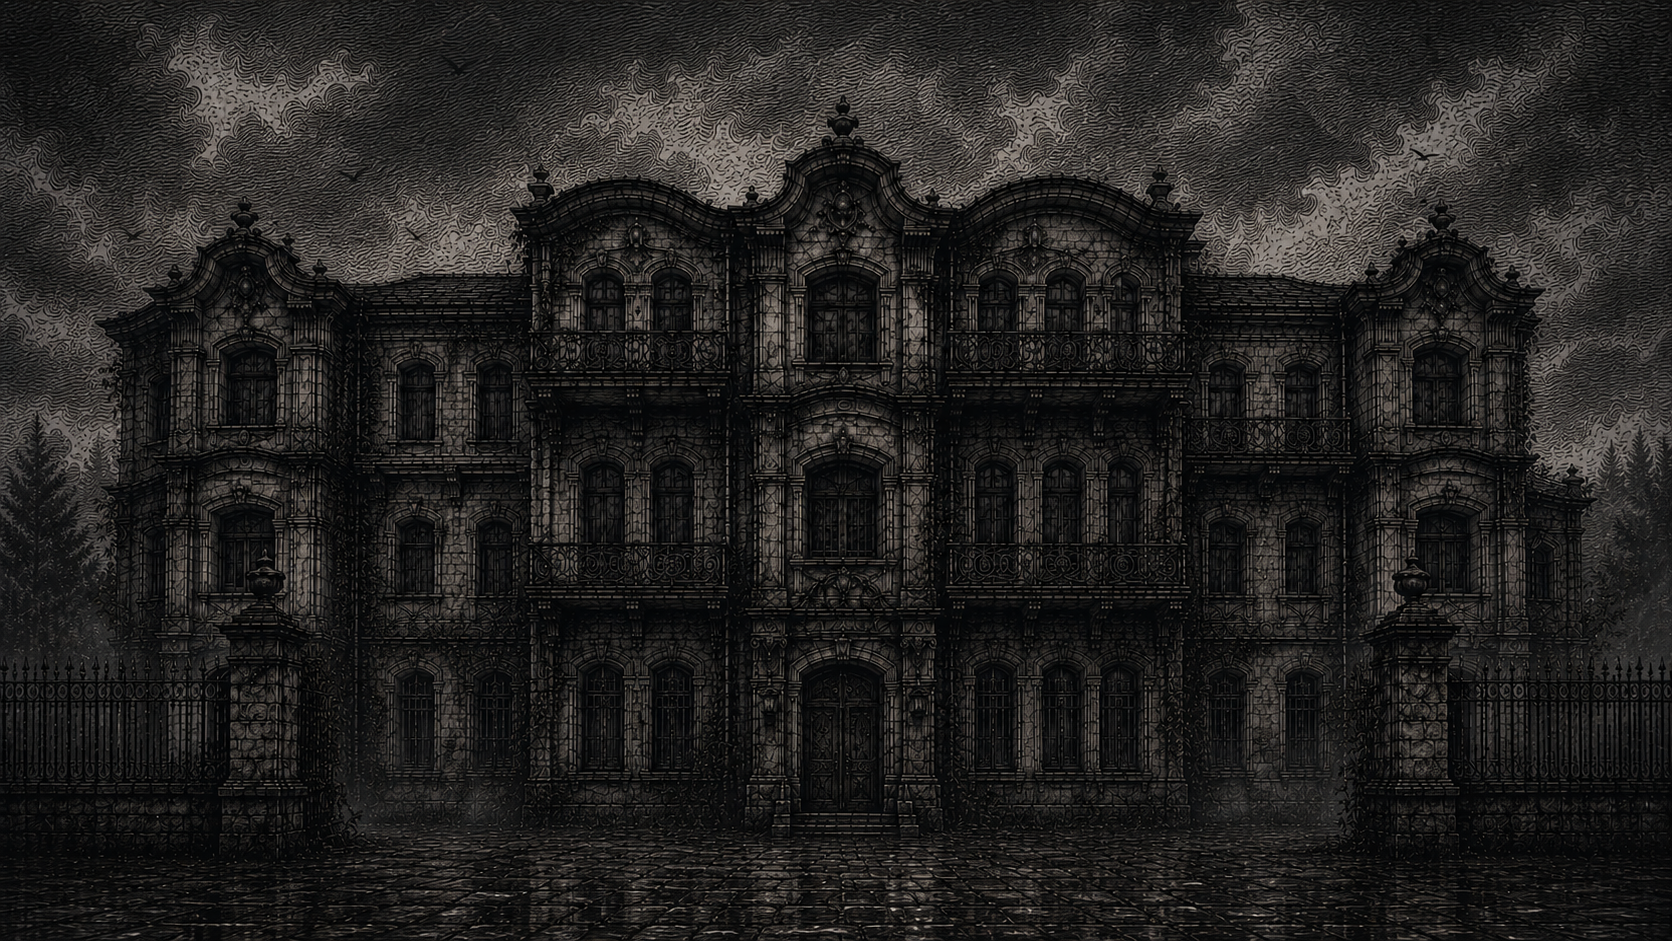
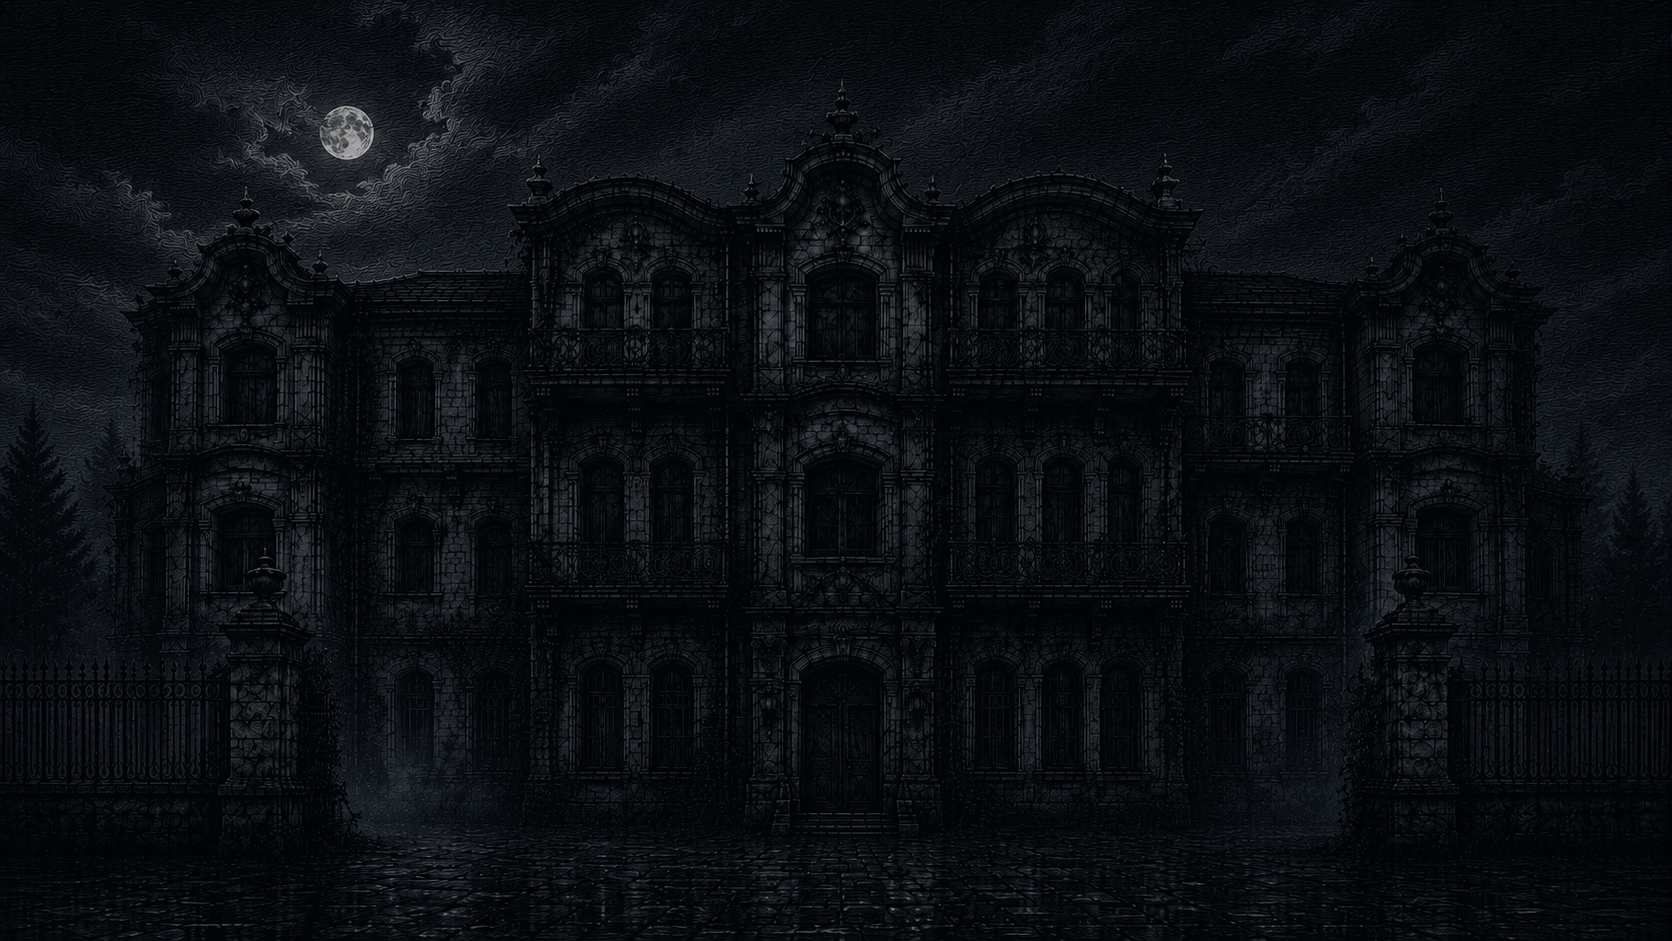
act-1-route-streets-pre-final

diff --git a/ROADMAP.md b/ROADMAP.md
@@ -5,38 +5,28 @@
 Когда я пишу вечером, сначала напомни мне:
 
 1. Что запланировано на сегодня.
-2. Что уже сделано.
-3. Какой следующий маленький шаг.
+2. Какие основные цели.
 
 ## 2026-07-04
 
 ### Главная цель
 
-- [ ] Доделать сцену Эйлин до цельного игрового прохода.
+- [x] Прописать тайминги в сцене Эйлин
 
-### Минимум
+### Дополнительно
 
-- [ ] Сделать текст и переходы по нужным таймингам.
-- [ ] Сделать плавный выход из сцены.
-- [ ] Написать текст для сцены спасения героя стражем Рикарда.
-
-### Если останутся силы
-
-- [ ] Написать черновик текста песни.
-- [ ] Разобраться, как при смене персонажей в одной сцене убирать тень.
+- [x] Написать текст для сцены спасения героя стражем Рикарда.
+- [x] Разобраться с тенями за персонажами.
 
 ## 2026-07-05
 
 ### Главная цель
 
-- [ ] Доделать ассеты и полировку для исследования Морвейна.
+- [x] Написать текст песни Эйлин.
+- [x] Сделать музыку для изучения колодца и переулков Морвейна.
+- [x] Сделать новый задник для переулков Морвейна.
+- [ ] Сделать сцену спасения из колодца: запрет скипа, таймаут.
 
-### Минимум
+### Дополнительно
 
-- [ ] Сделать музыку для изучения колодца и переулков Морвейна.
-- [ ] Сделать новый задник для переулков Морвейна.
-
-### Если останутся силы
-
-- [ ] Доработать или финализировать текст песни для сцены Эйлин.
-- [ ] Применить решение с тенью персонажей, если накануне получилось только разобраться.
+- [ ] Подумать, какой звук вставлять после выступления и перед ним.